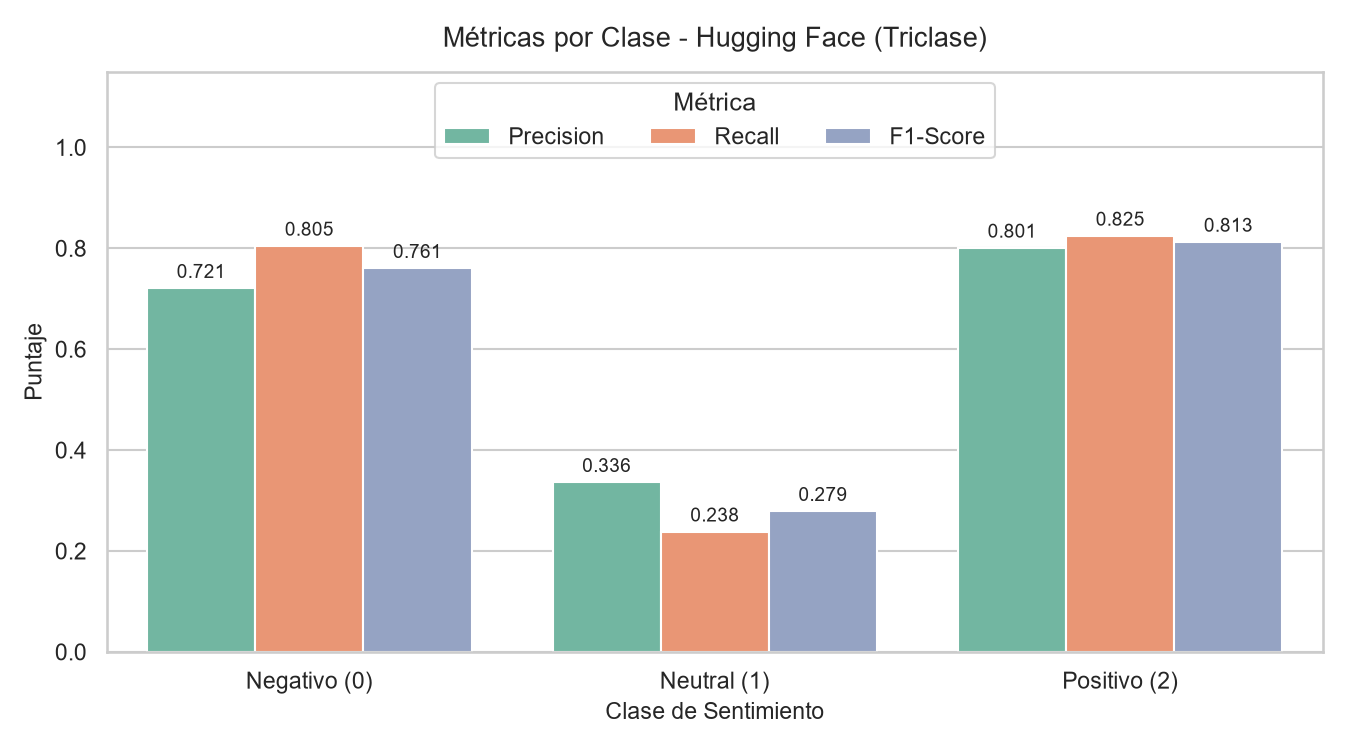
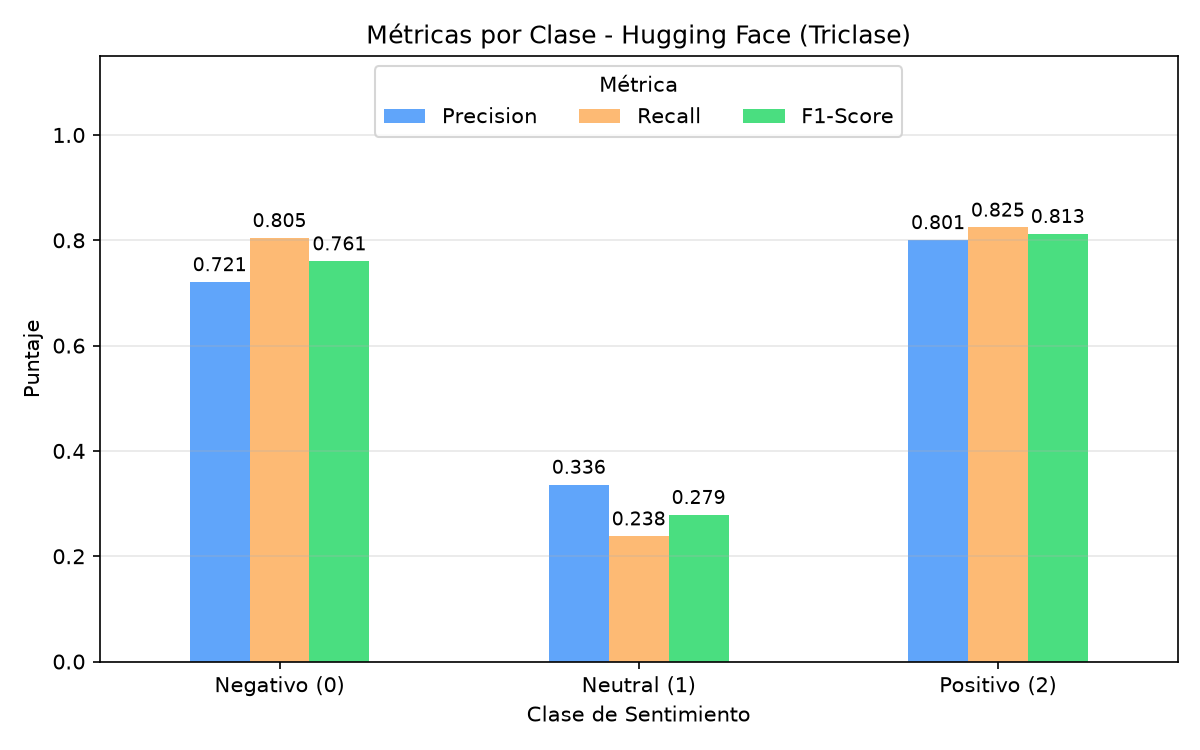
feat(triclase): actualiza evaluacion gpu de hf con validacion y graficos.

diff --git a/triclase/src/eval_hf.py b/triclase/src/eval_hf.py
@@ -1,5 +1,4 @@
 import argparse
-from contextlib import nullcontext
 import time
 from pathlib import Path
 import matplotlib
@@ -7,54 +6,34 @@ matplotlib.use("Agg")
 import matplotlib.pyplot as plt
 import numpy as np
 import pandas as pd
-import seaborn as sns
 import torch
-from sklearn.metrics import (
-    accuracy_score,
-    classification_report,
-    confusion_matrix,
-    f1_score,
-    precision_recall_fscore_support,
-    precision_score,
-    recall_score,
-)
+from sklearn.metrics import ConfusionMatrixDisplay, classification_report
 from tqdm import tqdm
 from transformers import AutoModelForSequenceClassification, AutoTokenizer
 
-# Configuracion por enfoque usando los mismos modelos definidos en vectorize.py.
-APPROACH_CONFIG = {
-    "triclase": {
-        "hf_model": "cardiffnlp/twitter-roberta-base-sentiment-latest",
-        "label_map": {"negative": 0, "neutral": 1, "positive": 2},
-        "class_names": ["Negativo (0)", "Neutral (1)", "Positivo (2)"],
-    },
-    "biclase": {
-        "hf_model": "distilbert-base-uncased-finetuned-sst-2-english",
-        "label_map": {"negative": 0, "positive": 1},
-        "class_names": ["Negativo (0)", "Positivo (1)"],
-    },
+HF_MODELS = {
+    "triclase": ("cardiffnlp/twitter-roberta-base-sentiment-latest", ["Negativo (0)", "Neutral (1)", "Positivo (2)"]),
+    "biclase": ("distilbert-base-uncased-finetuned-sst-2-english", ["Negativo (0)", "Positivo (1)"]),
 }
-
+LABEL_TO_ID = {
+    "triclase": {"negative": 0, "label_0": 0, "neutral": 1, "label_1": 1, "positive": 2, "label_2": 2},
+    "biclase": {"negative": 0, "label_0": 0, "positive": 1, "label_1": 1},
+}
 MAX_LENGTH = 512
 
 
-def load_test_split(enfoque):
-    processed_path = Path(f"{enfoque}/data/processed/amazon_reviews_clean.csv")
-    split_path = Path(f"{enfoque}/data/processed/train_test_split.csv")
-    y_test_path = Path(f"{enfoque}/data/vectorized/y_test.npy")
-
-    df = pd.read_csv(processed_path, usecols=["id", "text", "sentiment"])
+def load_test_texts(approach):
+    # Lee las resenas crudas del split test respetando el orden exacto de train_test_split.csv.
+    df = pd.read_csv(f"{approach}/data/processed/amazon_reviews_clean.csv", usecols=["id", "text", "sentiment"])
     df["text"] = df["text"].fillna("").astype(str)
-
-    split_df = pd.read_csv(split_path)
-    test_split = split_df[split_df["split"] == "test"][["id"]].copy()
-
-    # Mantiene el orden exacto de train_test_split.csv para coincidir con y_test.npy.
-    test_df = test_split.merge(df, on="id", how="left", sort=False)
+    split_df = pd.read_csv(f"{approach}/data/processed/train_test_split.csv")
+    test_df = split_df[split_df["split"] == "test"][["id"]].merge(df, on="id", how="left", sort=False)
     if test_df["sentiment"].isna().any():
         raise ValueError("Se encontraron ids del split test sin coincidencia en amazon_reviews_clean.csv.")
 
+    # Verifica alineacion exacta fila por fila contra y_test.npy si existe.
     y_true = test_df["sentiment"].to_numpy()
+    y_test_path = Path(f"{approach}/data/vectorized/y_test.npy")
     if y_test_path.exists():
         y_test_npy = np.load(y_test_path)
         if not np.array_equal(y_true, y_test_npy):
@@ -63,215 +42,112 @@ def load_test_split(enfoque):
     return test_df["text"].tolist(), y_true
 
 
-def build_id_remap(id2label, label_map):
-    # Traduce indices de salida del modelo hacia los enteros de sentiment del proyecto.
-    remap = np.zeros(len(id2label), dtype=np.int64)
-    for idx, label_name in id2label.items():
+def predict_gpu(texts, model_name, approach, batch_size):
+    # Ejecuta inferencia por lotes en GPU usando precision mixta fp16 sobre Tensor Cores.
+    device = "cuda" if torch.cuda.is_available() else "cpu"
+    tokenizer = AutoTokenizer.from_pretrained(model_name)
+    model = AutoModelForSequenceClassification.from_pretrained(model_name).to(device).eval()
+    print(f"Dispositivo: {device} | id2label: {model.config.id2label}")
+
+    # Mapea las etiquetas reales de model.config.id2label hacia los ids de sentimiento del proyecto.
+    label_map = LABEL_TO_ID[approach]
+    id_remap = np.zeros(len(model.config.id2label), dtype=np.int64)
+    for idx, label_name in model.config.id2label.items():
         normalized = str(label_name).strip().lower()
         if normalized not in label_map:
             raise ValueError(f"Etiqueta inesperada en model.config.id2label: {label_name}")
-        remap[int(idx)] = label_map[normalized]
-    return remap
-
-
-def predict_batches(texts, model_name, label_map, batch_size):
-    device = "cuda" if torch.cuda.is_available() else "cpu"
-    print(f"Dispositivo de inferencia: {device}")
-
-    tokenizer = AutoTokenizer.from_pretrained(model_name)
-    model = AutoModelForSequenceClassification.from_pretrained(model_name).to(device)
-    model.eval()
-
-    print(f"Mapeo model.config.id2label verificado: {model.config.id2label}")
-    id_remap = build_id_remap(model.config.id2label, label_map)
+        id_remap[int(idx)] = label_map[normalized]
 
     preds = []
-    # Usa precision mixta fp16 en GPU para acelerar inferencia y ahorrar VRAM.
-    autocast_ctx = torch.amp.autocast("cuda") if device == "cuda" else nullcontext()
-
-    if device == "cuda":
-        torch.cuda.synchronize()
     start_time = time.perf_counter()
-
-    with torch.inference_mode(), autocast_ctx:
+    with torch.inference_mode(), torch.amp.autocast("cuda", enabled=(device == "cuda")):
         for start in tqdm(range(0, len(texts), batch_size), desc="Evaluando HF"):
-            batch_texts = texts[start:start + batch_size]
             encoded = tokenizer(
-                batch_texts,
+                texts[start:start + batch_size],
                 padding=True,
                 truncation=True,
                 max_length=MAX_LENGTH,
                 return_tensors="pt",
             ).to(device)
-            logits = model(**encoded).logits
-            pred_ids = torch.argmax(logits, dim=-1).cpu().numpy()
+            pred_ids = torch.argmax(model(**encoded).logits, dim=-1).cpu().numpy()
             preds.append(id_remap[pred_ids])
 
-    if device == "cuda":
-        torch.cuda.synchronize()
-    elapsed_seconds = time.perf_counter() - start_time
-
-    return np.concatenate(preds), elapsed_seconds, model.config.id2label, device
+    elapsed = time.perf_counter() - start_time
+    print(f"Tiempo de inferencia: {elapsed:.2f} s ({elapsed / len(texts) * 1000:.2f} ms/resena)")
+    return np.concatenate(preds)
 
 
-def save_plots(cm, y_true, y_pred, class_names, enfoque, figures_dir):
+def save_plots(y_true, y_pred, report_dict, class_names, approach, figures_dir):
+    # Genera la matriz de confusion y el grafico de barras por clase con pandas y sklearn.
     figures_dir.mkdir(parents=True, exist_ok=True)
-    sns.set_theme(style="whitegrid")
 
-    # Grafico tradicional de matriz de confusion con mapa de calor.
     fig, ax = plt.subplots(figsize=(7, 6))
-    sns.heatmap(
-        cm,
-        annot=True,
-        fmt=",d",
-        cmap="Blues",
-        xticklabels=class_names,
-        yticklabels=class_names,
-        cbar=True,
-        annot_kws={"size": 12, "weight": "bold"},
-        ax=ax,
+    ConfusionMatrixDisplay.from_predictions(
+        y_true, y_pred, display_labels=class_names, cmap="Blues", values_format="d", ax=ax
     )
-    ax.set_title(f"Matriz de Confusión - Hugging Face ({enfoque.capitalize()})", fontsize=13, pad=12)
-    ax.set_xlabel("Predicción del Modelo", fontsize=11)
-    ax.set_ylabel("Clase Real", fontsize=11)
+    ax.set_title(f"Matriz de Confusión - Hugging Face ({approach.capitalize()})")
+    ax.set_xlabel("Predicción del Modelo")
+    ax.set_ylabel("Clase Real")
     plt.tight_layout()
-    cm_fig_path = figures_dir / "confusion_matrix_hf.png"
-    fig.savefig(cm_fig_path, dpi=150)
+    fig.savefig(figures_dir / "confusion_matrix_hf.png", dpi=150)
     plt.close(fig)
 
-    # Grafico de barras agrupadas para precision, recall y f1 por clase.
-    prec, rec, f1_vals, _ = precision_recall_fscore_support(y_true, y_pred, zero_division=0)
-    rows = []
-    for idx, name in enumerate(class_names):
-        rows.append({"class_name": name, "metric": "Precision", "score": prec[idx]})
-        rows.append({"class_name": name, "metric": "Recall", "score": rec[idx]})
-        rows.append({"class_name": name, "metric": "F1-Score", "score": f1_vals[idx]})
-    plot_df = pd.DataFrame(rows)
-
-    fig, ax = plt.subplots(figsize=(9, 5))
-    sns.barplot(
-        data=plot_df,
-        x="class_name",
-        y="score",
-        hue="metric",
-        palette="Set2",
-        ax=ax,
-    )
-    ax.set_title(f"Métricas por Clase - Hugging Face ({enfoque.capitalize()})", fontsize=13, pad=12)
-    ax.set_xlabel("Clase de Sentimiento", fontsize=11)
-    ax.set_ylabel("Puntaje", fontsize=11)
-    ax.set_ylim(0, 1.15)
-    ax.legend(title="Métrica", loc="upper center", ncol=3, frameon=True)
-    for patch in ax.patches:
-        height = patch.get_height()
-        if height > 0:
-            ax.annotate(
-                f"{height:.3f}",
-                (patch.get_x() + patch.get_width() / 2.0, height),
-                ha="center",
-                va="bottom",
-                fontsize=9,
-                xytext=(0, 3),
-                textcoords="offset points",
-            )
+    report_df = pd.DataFrame(report_dict).T.loc[class_names, ["precision", "recall", "f1-score"]]
+    ax = report_df.plot(kind="bar", figsize=(8, 5), rot=0, ylim=(0, 1.15), color=["#60A5FA", "#FDBA74", "#4ADE80"])
+    for container in ax.containers:
+        ax.bar_label(container, fmt="%.3f", padding=3, fontsize=9)
+    ax.set_title(f"Métricas por Clase - Hugging Face ({approach.capitalize()})")
+    ax.set_xlabel("Clase de Sentimiento")
+    ax.set_ylabel("Puntaje")
+    ax.grid(axis="y", alpha=0.3)
+    ax.legend(["Precision", "Recall", "F1-Score"], title="Métrica", loc="upper center", ncol=3)
     plt.tight_layout()
-    metrics_fig_path = figures_dir / "class_metrics_hf.png"
-    fig.savefig(metrics_fig_path, dpi=150)
-    plt.close(fig)
-
-    return cm_fig_path, metrics_fig_path
-
-
-def save_outputs(enfoque, model_name, y_true, y_pred, class_names):
-    vectorized_dir = Path(f"{enfoque}/data/vectorized")
-    reports_dir = Path(f"{enfoque}/reports")
-    figures_dir = reports_dir / "figures"
-    vectorized_dir.mkdir(parents=True, exist_ok=True)
-    reports_dir.mkdir(parents=True, exist_ok=True)
-
-    np.save(vectorized_dir / "y_pred_hf.npy", y_pred)
-
-    accuracy = accuracy_score(y_true, y_pred)
-    precision_macro = precision_score(y_true, y_pred, average="macro", zero_division=0)
-    recall_macro = recall_score(y_true, y_pred, average="macro", zero_division=0)
-    f1_macro = f1_score(y_true, y_pred, average="macro", zero_division=0)
-
-    metrics_df = pd.DataFrame([{
-        "model": model_name,
-        "representation": "hf_pipeline",
-        "accuracy": round(float(accuracy), 6),
-        "precision_macro": round(float(precision_macro), 6),
-        "recall_macro": round(float(recall_macro), 6),
-        "f1_macro": round(float(f1_macro), 6),
-        "cv_f1_mean": np.nan,
-        "cv_f1_std": np.nan,
-    }])
-    metrics_csv_path = reports_dir / "metrics_hf.csv"
-    metrics_df.to_csv(metrics_csv_path, index=False)
-
-    report_text = classification_report(
-        y_true, y_pred, target_names=class_names, digits=4, zero_division=0
-    )
-    cm = confusion_matrix(y_true, y_pred)
-    cm_df = pd.DataFrame(cm, index=class_names, columns=class_names)
-    cm_fig_path, metrics_fig_path = save_plots(
-        cm, y_true, y_pred, class_names, enfoque, figures_dir
-    )
-
-    return accuracy, f1_macro, report_text, cm_df, metrics_csv_path, cm_fig_path, metrics_fig_path
-
-
-def parse_args():
-    parser = argparse.ArgumentParser(description="Evalua modelo preentrenado de Hugging Face sobre test.")
-    parser.add_argument("--enfoque", choices=["triclase", "biclase"], default="triclase")
-    parser.add_argument("--batch-size", type=int, default=64)
-    parser.add_argument("--force", action="store_true")
-    return parser.parse_args()
+    ax.get_figure().savefig(figures_dir / "class_metrics_hf.png", dpi=150)
+    plt.close(ax.get_figure())
 
 
 def main():
-    args = parse_args()
-    config = APPROACH_CONFIG[args.enfoque]
-    y_pred_path = Path(f"{args.enfoque}/data/vectorized/y_pred_hf.npy")
+    # Coordina la carga de test, inferencia o lectura de cache, exportacion CSV y graficos.
+    parser = argparse.ArgumentParser(description="Evalua modelo preentrenado de Hugging Face sobre test.")
+    parser.add_argument("--enfoque", dest="approach", choices=["triclase", "biclase"], default="triclase")
+    parser.add_argument("--batch-size", type=int, default=64)
+    parser.add_argument("--force", action="store_true")
+    args = parser.parse_args()
 
-    print(f"Cargando split test ({args.enfoque})...")
-    texts, y_true = load_test_split(args.enfoque)
-    print(f"Resenas a evaluar: {len(texts):,}")
+    approach = args.approach
+    model_name, class_names = HF_MODELS[approach]
+    y_pred_path = Path(f"{approach}/data/vectorized/y_pred_hf.npy")
+    reports_dir = Path(f"{approach}/reports")
+    reports_dir.mkdir(parents=True, exist_ok=True)
+    y_pred_path.parent.mkdir(parents=True, exist_ok=True)
 
-    # Reutiliza predicciones guardadas si existen para regenerar graficos sin recalcular GPU.
+    texts, y_true = load_test_texts(approach)
+    print(f"Evaluando {len(texts):,} resenas de test ({approach})...")
+
     if y_pred_path.exists() and not args.force:
-        print(f"Cargando predicciones existentes desde {y_pred_path} (usa --force para recalcular)...")
+        print(f"Cargando predicciones guardadas en {y_pred_path} (usa --force para recalcular)...")
         y_pred = np.load(y_pred_path)
         if len(y_pred) != len(y_true):
             raise ValueError("La cantidad de predicciones en y_pred_hf.npy no coincide con y_true.")
-        elapsed_seconds = None
     else:
-        y_pred, elapsed_seconds, _, _ = predict_batches(
-            texts, config["hf_model"], config["label_map"], args.batch_size
-        )
+        y_pred = predict_gpu(texts, model_name, approach, args.batch_size)
+        np.save(y_pred_path, y_pred)
 
-    accuracy, f1_macro, report_text, cm_df, metrics_csv_path, cm_fig_path, metrics_fig_path = save_outputs(
-        args.enfoque,
-        config["hf_model"],
-        y_true,
-        y_pred,
-        config["class_names"],
-    )
+    report_dict = classification_report(y_true, y_pred, target_names=class_names, output_dict=True, zero_division=0)
+    macro = report_dict["macro avg"]
+    pd.DataFrame([{
+        "model": model_name,
+        "representation": "hf_pipeline",
+        "accuracy": report_dict["accuracy"],
+        "precision_macro": macro["precision"],
+        "recall_macro": macro["recall"],
+        "f1_macro": macro["f1-score"],
+        "cv_f1_mean": np.nan,
+        "cv_f1_std": np.nan,
+    }]).round(6).to_csv(reports_dir / "metrics_hf.csv", index=False)
 
-    print("\n" + "=" * 50)
-    print(f">> EVALUACION HF {args.enfoque.upper()} COMPLETADA")
-    print("=" * 50)
-    if elapsed_seconds is not None:
-        print(f"Accuracy: {accuracy:.4f} | F1 Macro: {f1_macro:.4f} | Tiempo: {elapsed_seconds:.2f} s")
-    else:
-        print(f"Accuracy: {accuracy:.4f} | F1 Macro: {f1_macro:.4f}")
-    print("\nReporte por clase:")
-    print(report_text)
-    print("Matriz de confusion:")
-    print(cm_df)
-    print(f"\nCSV guardado en: {metrics_csv_path}")
-    print(f"Matriz de confusion guardada en: {cm_fig_path}")
-    print(f"Metricas por clase guardadas en: {metrics_fig_path}")
+    save_plots(y_true, y_pred, report_dict, class_names, approach, reports_dir / "figures")
+    print(classification_report(y_true, y_pred, target_names=class_names, digits=4, zero_division=0))
 
 
 if __name__ == "__main__":
